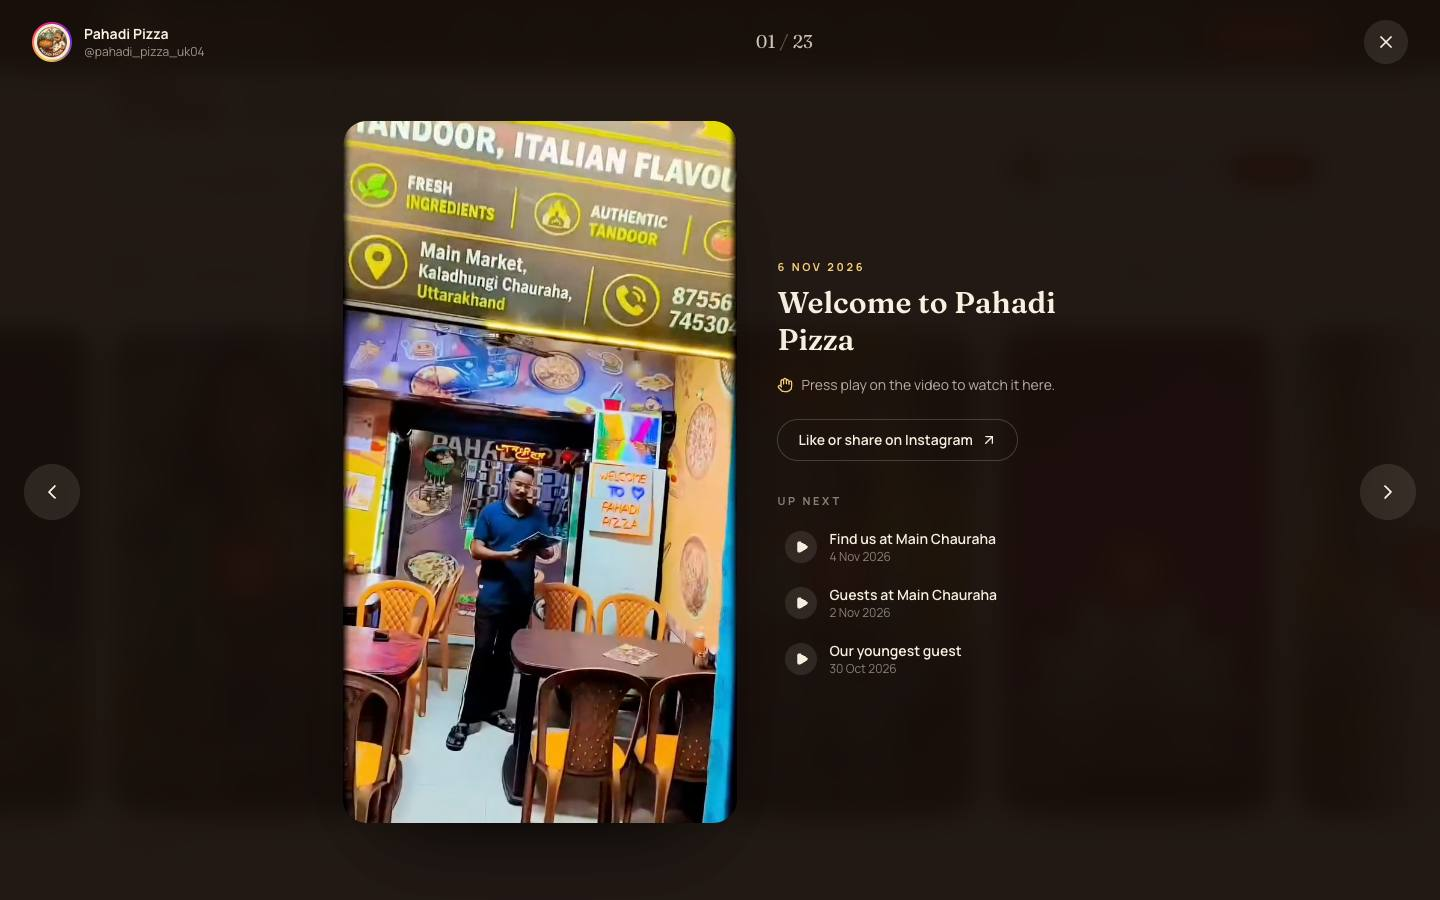
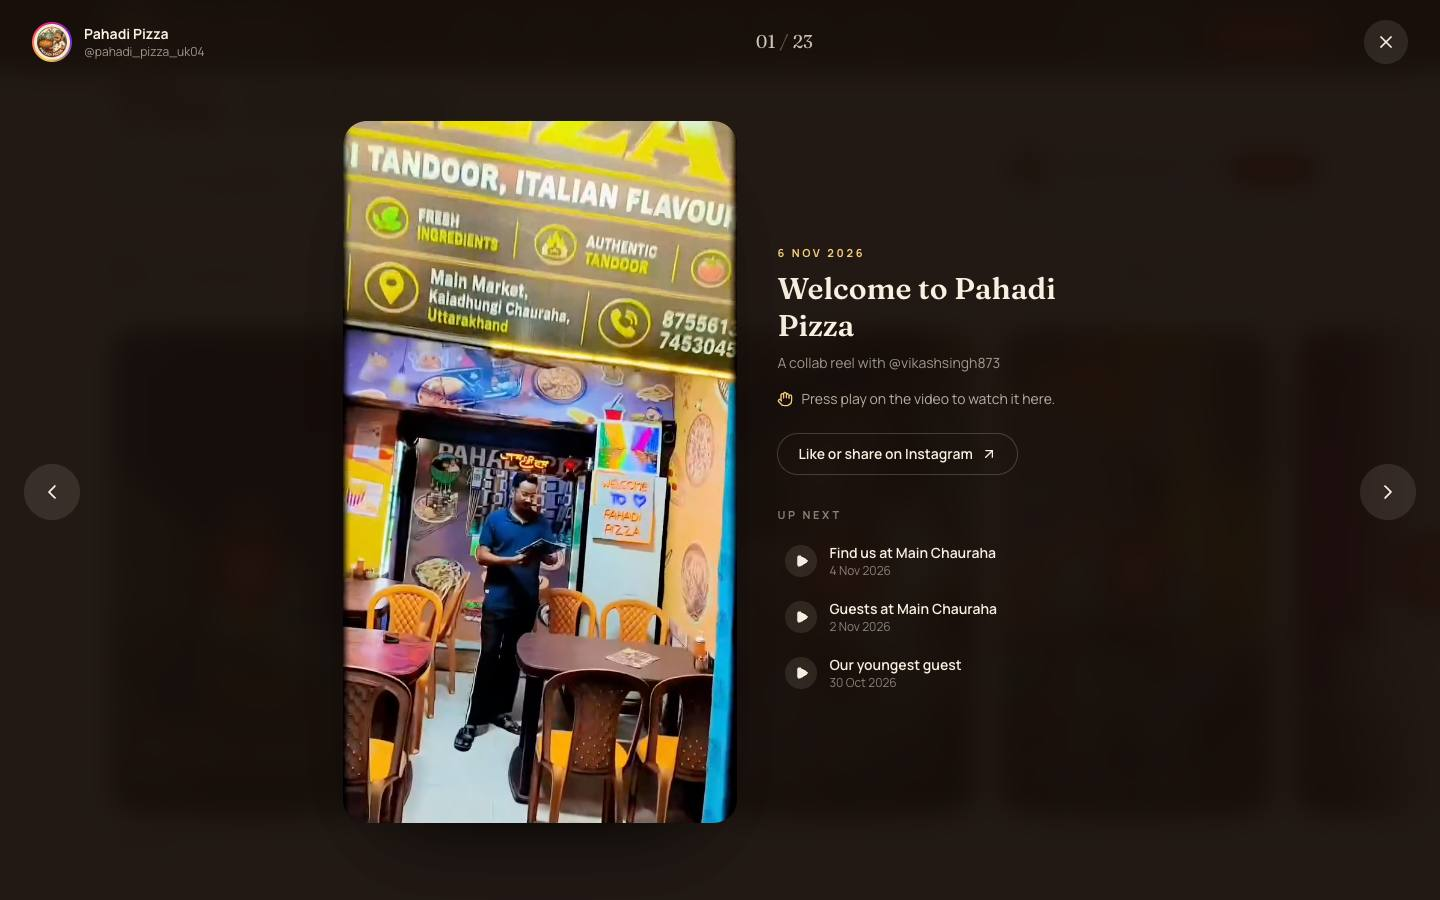
fix(gallery): keep the strip still on phones and credit collab reels
- Auto-advance now runs only at 768px and wider, where the Pause
  button is shown. On phones the strip moves only when swiped, so
  nothing slides under the visitor's thumb.
- Credit the main author of the 8 collab reels in the theatre
  ("A collab reel with @handle"), since the cropped embed no longer
  shows Instagram's own credit line.
- Trim two reel labels to what the frames show.
- Live feed: albums that open on a video use their thumbnail as the
  card poster instead of the mp4 URL, and the theatre shows album
  slides with dots again.
- Retake the gallery screenshots as a visitor lands on /#gallery.

Changed region(s): [[0.2188, 0.1244, 0.75, 0.9333]]

diff --git a/src/instagram-posts.ts b/src/instagram-posts.ts
@@ -21,34 +21,36 @@ export type FeaturedPost = {
   label: string;
   date: string;
   playsInline: boolean;
+  /** Main author of a collab reel, credited in the theatre (the cropped embed hides Instagram's own credit). */
+  with?: string;
 };
 
 export const FEATURED_POSTS: FeaturedPost[] = [
   { kind: 'reel', code: 'DfimTwrzt0O', date: '2026-11-10', playsInline: false, label: 'Pizza, momos and chowmein at Main Chauraha' },
   { kind: 'reel', code: 'DfgOV9jibEz', date: '2026-11-09', playsInline: false, label: 'Diwali buy-one-get-one offer' },
-  { kind: 'reel', code: 'DfYmET6ypEU', date: '2026-11-06', playsInline: true, label: 'Welcome to Pahadi Pizza' },
+  { kind: 'reel', code: 'DfYmET6ypEU', date: '2026-11-06', playsInline: true, label: 'Welcome to Pahadi Pizza', with: 'vikashsingh873' },
   { kind: 'reel', code: 'DfXCtE7I5E2', date: '2026-11-05', playsInline: false, label: 'A guest review at Main Chauraha' },
   { kind: 'reel', code: 'DfT8aY9i7IL', date: '2026-11-04', playsInline: true, label: 'Find us at Main Chauraha' },
-  { kind: 'reel', code: 'DfOLx8sB7SV', date: '2026-11-02', playsInline: true, label: 'Guests at Main Chauraha' },
+  { kind: 'reel', code: 'DfOLx8sB7SV', date: '2026-11-02', playsInline: true, label: 'Guests at Main Chauraha', with: 'vikashsingh873' },
   { kind: 'reel', code: 'DfMoreRirXH', date: '2026-11-01', playsInline: false, label: 'Pahadi Pizza, Kaladhungi' },
   { kind: 'reel', code: 'DfHmSh-C3PL', date: '2026-10-30', playsInline: false, label: 'Guests trying the offer' },
-  { kind: 'reel', code: 'DfG7OJlB3wp', date: '2026-10-30', playsInline: true, label: 'Our youngest guest' },
-  { kind: 'reel', code: 'De3ovyeOlPC', date: '2026-10-24', playsInline: false, label: 'The Pahadi Pizza wall' },
+  { kind: 'reel', code: 'DfG7OJlB3wp', date: '2026-10-30', playsInline: true, label: 'Our youngest guest', with: 'vikashsingh873' },
+  { kind: 'reel', code: 'De3ovyeOlPC', date: '2026-10-24', playsInline: false, label: 'The Pahadi Pizza wall', with: 'vikashsingh873' },
   { kind: 'reel', code: 'DeqLo1Mi8oy', date: '2026-10-19', playsInline: false, label: 'Sauce on the base' },
   { kind: 'reel', code: 'Dek_owcIFDL', date: '2026-10-17', playsInline: false, label: 'A guest review' },
   { kind: 'reel', code: 'DedT9zxiLoE', date: '2026-10-14', playsInline: true, label: 'Namaste from Pahadi Pizza' },
   { kind: 'reel', code: 'Deapyj5oEm7', date: '2026-10-13', playsInline: true, label: 'Mandua momos' },
-  { kind: 'reel', code: 'DeVhlK9os7A', date: '2026-10-11', playsInline: true, label: 'A new reel from the team' },
+  { kind: 'reel', code: 'DeVhlK9os7A', date: '2026-10-11', playsInline: true, label: 'A new reel from the team', with: 'vikashsingh873' },
   { kind: 'reel', code: 'DeN1AR_Jo_3', date: '2026-10-08', playsInline: true, label: 'Mandua momos at Main Chauraha' },
   { kind: 'reel', code: 'DeMR_xzi2mf', date: '2026-10-07', playsInline: true, label: 'A pizza, up close' },
   { kind: 'reel', code: 'DeJzxRDCZXH', date: '2026-10-06', playsInline: false, label: 'Mandua momos, a review from Ramnagar' },
   { kind: 'reel', code: 'DeIkwQnJLeG', date: '2026-10-06', playsInline: false, label: 'The welcome sign' },
   { kind: 'reel', code: 'DeGMN99JrlQ', date: '2026-10-05', playsInline: true, label: 'The neon welcome' },
   { kind: 'reel', code: 'DeAy7gxzg5Z', date: '2026-10-03', playsInline: false, label: 'Order now at Main Chauraha' },
-  { kind: 'reel', code: 'Dd-Wn7btRGd', date: '2026-10-02', playsInline: true, label: 'Hot pizza, fresh from the oven' },
-  { kind: 'reel', code: 'Dd0DP9VNLa6', date: '2026-09-28', playsInline: true, label: 'Main Chauraha at night' },
+  { kind: 'reel', code: 'Dd-Wn7btRGd', date: '2026-10-02', playsInline: true, label: 'A pizza close-up', with: 'its_akashsaini718' },
+  { kind: 'reel', code: 'Dd0DP9VNLa6', date: '2026-09-28', playsInline: true, label: 'Main Chauraha at night', with: 'vikashsingh873' },
   { kind: 'reel', code: 'DdxeMQBpNqS', date: '2026-09-27', playsInline: true, label: 'A customer review' },
-  { kind: 'reel', code: 'DdkndlFs2_z', date: '2026-09-22', playsInline: false, label: 'Pahadi Pizza, Kaladhungi' },
+  { kind: 'reel', code: 'DdkndlFs2_z', date: '2026-09-22', playsInline: false, label: 'Pahadi Pizza, Kaladhungi', with: 'vikashsingh873' },
   { kind: 'reel', code: 'DdjNP9gqM-a', date: '2026-09-21', playsInline: true, label: 'Inside the restaurant' },
   { kind: 'reel', code: 'DdiL8sqJPL9', date: '2026-09-21', playsInline: true, label: 'The Pahadi Pizza wall' },
   { kind: 'reel', code: 'DdWXhPhKUee', date: '2026-09-16', playsInline: false, label: 'A guest at the table' },
@@ -65,7 +67,7 @@ export const FEATURED_POSTS: FeaturedPost[] = [
   { kind: 'reel', code: 'DcgXClti2QN', date: '2026-08-26', playsInline: false, label: 'Pizza party' },
   { kind: 'reel', code: 'DcckbqtCyG5', date: '2026-08-25', playsInline: true, label: 'The shopfront by night' },
   { kind: 'reel', code: 'DcVj4CGCk8f', date: '2026-08-22', playsInline: false, label: 'Mandua momos' },
-  { kind: 'reel', code: 'DcOT7d0ii-c', date: '2026-08-19', playsInline: true, label: 'Olives, cheese and a crisp base' },
+  { kind: 'reel', code: 'DcOT7d0ii-c', date: '2026-08-19', playsInline: true, label: 'A pizza with olives' },
   { kind: 'reel', code: 'Db-02Ljit1d', date: '2026-08-13', playsInline: false, label: 'A guest review' },
   { kind: 'reel', code: 'DbdP8GtiAGQ', date: '2026-07-31', playsInline: true, label: 'A pizza, ready to serve' },
   { kind: 'p', code: 'DKjLT1vJZfO', date: '2025-06-06', playsInline: false, label: 'The full menu card' },

diff --git a/src/components/gallery/Theatre.tsx b/src/components/gallery/Theatre.tsx
@@ -1,6 +1,6 @@
 'use client';
 
-import { useCallback, useEffect, useRef, type PointerEvent } from 'react';
+import { useCallback, useEffect, useRef, useState, type PointerEvent } from 'react';
 import Image from 'next/image';
 import { AnimatePresence, motion } from 'framer-motion';
 import { ArrowUpRight, ChevronLeft, ChevronRight, Hand, Play, X } from 'lucide-react';
@@ -146,6 +146,7 @@ export default function Theatre({ items, index, onChange }: Props) {
               )}
               <p className="text-[11px] font-bold uppercase tracking-[0.24em] text-gold-light">{formatPostDate(item.date)}</p>
               <h3 className="mt-2 font-display text-2xl font-semibold leading-tight md:text-3xl">{item.label}</h3>
+              {item.with && <p className="mt-2 text-sm text-cream/60">A collab reel with @{item.with}</p>}
               {item.caption && <Caption text={item.caption} />}
               {item.embedUrl && item.kind === 'video' && (
                 <p className="mt-4 flex items-center gap-2 text-sm text-cream/70">
@@ -209,32 +210,7 @@ export default function Theatre({ items, index, onChange }: Props) {
 /** Video frame, sized to fit the screen height. */
 function Stage({ item }: { item: ReelItem }) {
   const media = item.media;
-
-  if (media) {
-    const slide = media.mediaType === 'CAROUSEL_ALBUM' && media.children?.length ? media.children[0] : media;
-    const isVideo = slide.mediaType === 'VIDEO';
-    return (
-      <div
-        className={`relative mx-auto overflow-hidden rounded-[1.5rem] bg-black shadow-[0_40px_90px_-40px_rgba(0,0,0,0.9)] ${
-          isVideo ? 'aspect-[9/16] h-[min(62vh,calc(100vw*16/9))] md:h-[min(78vh,820px)]' : 'aspect-[4/5] h-[min(62vh,calc(100vw*5/4))] md:h-[min(78vh,760px)]'
-        }`}
-      >
-        {isVideo ? (
-          <video
-            key={slide.mediaUrl}
-            src={slide.mediaUrl}
-            poster={slide.thumbnailUrl}
-            controls
-            autoPlay
-            playsInline
-            className="absolute inset-0 h-full w-full object-contain"
-          />
-        ) : (
-          <Image src={slide.mediaUrl} alt={item.label} fill unoptimized sizes="(min-width: 768px) 50vw, 100vw" className="object-contain" />
-        )}
-      </div>
-    );
-  }
+  if (media) return <MediaStage key={item.id} item={item} />;
 
   const reel = item.kind === 'video';
   return (
@@ -255,6 +231,51 @@ function Stage({ item }: { item: ReelItem }) {
           shape={reel ? 'reel' : 'post'}
           inert={!reel}
         />
+      )}
+    </div>
+  );
+}
+
+/** A live API post: our own player for videos, the image for photos, with dots for album slides. */
+function MediaStage({ item }: { item: ReelItem }) {
+  const media = item.media!;
+  const slides = media.mediaType === 'CAROUSEL_ALBUM' && media.children?.length ? media.children : [media];
+  const [slide, setSlide] = useState(0);
+  const current = slides[Math.min(slide, slides.length - 1)];
+  const isVideo = current.mediaType === 'VIDEO';
+
+  return (
+    <div
+      className={`relative mx-auto overflow-hidden rounded-[1.5rem] bg-black shadow-[0_40px_90px_-40px_rgba(0,0,0,0.9)] ${
+        isVideo ? 'aspect-[9/16] w-[min(100%,calc(62vh*9/16))] md:w-[min(calc(78vh*9/16),460px)]' : 'aspect-[4/5] w-[min(100%,calc(62vh*4/5))] md:w-[min(calc(78vh*4/5),600px)]'
+      }`}
+    >
+      {isVideo ? (
+        <video
+          key={current.mediaUrl}
+          src={current.mediaUrl}
+          poster={current.thumbnailUrl}
+          controls
+          autoPlay
+          playsInline
+          className="absolute inset-0 h-full w-full object-contain"
+        />
+      ) : (
+        <Image key={current.mediaUrl} src={current.mediaUrl} alt={item.label} fill unoptimized sizes="(min-width: 768px) 50vw, 100vw" className="object-contain" />
+      )}
+      {slides.length > 1 && (
+        <div className="absolute inset-x-0 bottom-3 flex justify-center gap-1.5">
+          {slides.map((s, i) => (
+            <button
+              key={s.id}
+              type="button"
+              onClick={() => setSlide(i)}
+              aria-label={`Show slide ${i + 1} of ${slides.length}`}
+              aria-current={i === slide}
+              className={`h-2 rounded-full transition-all ${i === slide ? 'w-6 bg-cream' : 'w-2 bg-cream/50'}`}
+            />
+          ))}
+        </div>
       )}
     </div>
   );

diff --git a/src/components/gallery/ReelStrip.tsx b/src/components/gallery/ReelStrip.tsx
@@ -4,7 +4,7 @@ import { useCallback, useEffect, useRef, useState, type KeyboardEvent, type Mous
 import { ChevronLeft, ChevronRight, Pause, Play } from 'lucide-react';
 import ReelCard from './ReelCard';
 import type { ReelItem } from './types';
-import { usePrefersReducedMotion } from './usePrefersReducedMotion';
+import { usePrefersReducedMotion, useMediaQuery } from './usePrefersReducedMotion';
 
 const AUTO_ADVANCE_MS = 3600;
 /** After the visitor scrolls, drags or presses an arrow, auto-advance waits this long before resuming. */
@@ -22,13 +22,16 @@ type Props = {
 /**
  * Horizontal reel strip: native momentum scrolling and swipe, mouse drag with a little glide,
  * arrow buttons, keyboard arrows between cards, and a gentle auto-advance that loops back to
- * the first reel. Auto-advance stops on hover, focus, interaction, while the theatre is open,
+ * the first reel (wide screens only). Auto-advance stops on hover, focus, interaction, while the theatre is open,
  * off screen, in a background tab, for reduced motion, or with the pause button.
  */
 export default function ReelStrip({ items, paused, onOpen }: Props) {
   const scroller = useRef<HTMLUListElement>(null);
   const section = useRef<HTMLDivElement>(null);
   const reduced = usePrefersReducedMotion();
+  // Phones scroll the strip by swipe only: nothing moves under the visitor's thumb.
+  const wide = useMediaQuery('(min-width: 768px)');
+  const auto = wide && !reduced;
 
   const [inView, setInView] = useState(false);
   const [near, setNear] = useState<boolean[]>(() => items.map(() => false));
@@ -110,12 +113,12 @@ export default function ReelStrip({ items, paused, onOpen }: Props) {
 
   // Auto-advance. `now` ticks so a pause after interaction ends on its own.
   const running =
-    !reduced && !userPaused && !paused && !hovering && !focusWithin && inView && pageVisible && now - lastTouch > RESUME_AFTER_MS;
+    auto && !userPaused && !paused && !hovering && !focusWithin && inView && pageVisible && now - lastTouch > RESUME_AFTER_MS;
   useEffect(() => {
-    if (reduced || userPaused) return;
+    if (!auto || userPaused) return;
     const t = window.setInterval(() => setNow(Date.now()), AUTO_ADVANCE_MS);
     return () => window.clearInterval(t);
-  }, [reduced, userPaused]);
+  }, [auto, userPaused]);
   useEffect(() => {
     if (running && now) go(1);
     // Advance once per tick only.
@@ -200,7 +203,6 @@ export default function ReelStrip({ items, paused, onOpen }: Props) {
     next.closest('li')?.scrollIntoView({ behavior: reduced ? 'auto' : 'smooth', inline: 'start', block: 'nearest' });
   };
 
-  const showAutoToggle = !reduced;
 
   return (
     <div ref={section} onMouseEnter={() => setHovering(true)} onMouseLeave={() => setHovering(false)}>
@@ -212,13 +214,13 @@ export default function ReelStrip({ items, paused, onOpen }: Props) {
           <span className="ml-3 hidden sm:inline">Newest first</span>
         </p>
         <div className="flex items-center gap-2">
-          {showAutoToggle && (
+          {auto && (
             <button
               type="button"
               onClick={() => setUserPaused((p) => !p)}
               aria-pressed={userPaused}
               aria-label={userPaused ? 'Resume auto-scroll' : 'Pause auto-scroll'}
-              className="mr-1 hidden h-11 items-center gap-2 rounded-full px-4 text-xs font-bold uppercase tracking-[0.18em] text-muted transition hover:text-tomato md:inline-flex"
+              className="mr-1 inline-flex h-11 items-center gap-2 rounded-full px-4 text-xs font-bold uppercase tracking-[0.18em] text-muted transition hover:text-tomato"
             >
               {userPaused ? <Play className="h-3.5 w-3.5 fill-current" aria-hidden /> : <Pause className="h-3.5 w-3.5 fill-current" aria-hidden />}
               {userPaused ? 'Play' : 'Pause'}

diff --git a/src/components/gallery/usePrefersReducedMotion.ts b/src/components/gallery/usePrefersReducedMotion.ts
@@ -1,14 +1,15 @@
 'use client';
 
-import { useSyncExternalStore } from 'react';
+import { useCallback, useSyncExternalStore } from 'react';
 
 const QUERY = '(prefers-reduced-motion: reduce)';
 
-function subscribe(cb: () => void) {
-  const mq = window.matchMedia(QUERY);
+const subscribeTo = (query: string) => (cb: () => void) => {
+  const mq = window.matchMedia(query);
   mq.addEventListener('change', cb);
   return () => mq.removeEventListener('change', cb);
-}
+};
+const subscribe = subscribeTo(QUERY);
 
 /** True when the visitor asked the OS for less motion. Server render assumes reduced motion, so nothing autoplays before hydration. */
 export function usePrefersReducedMotion() {
@@ -16,5 +17,15 @@ export function usePrefersReducedMotion() {
     subscribe,
     () => window.matchMedia(QUERY).matches,
     () => true,
+  );
+}
+
+/** True while the media query matches. Server render assumes it does not. */
+export function useMediaQuery(query: string) {
+  const subscribeQuery = useCallback((cb: () => void) => subscribeTo(query)(cb), [query]);
+  return useSyncExternalStore(
+    subscribeQuery,
+    () => window.matchMedia(query).matches,
+    () => false,
   );
 }

diff --git a/src/components/gallery/ReelCard.tsx b/src/components/gallery/ReelCard.tsx
@@ -23,7 +23,8 @@ type Props = {
  */
 export default function ReelCard({ item, index, total, near, onOpen }: Props) {
   const isVideo = item.kind === 'video';
-  const poster = item.media ? (isVideo ? item.media.thumbnailUrl : item.media.mediaUrl) : undefined;
+  // For videos, and albums that open on a video, mediaUrl is an mp4, so the thumbnail is the poster.
+  const poster = item.media ? (item.media.mediaType === 'IMAGE' ? item.media.mediaUrl : (item.media.thumbnailUrl ?? item.media.mediaUrl)) : undefined;
   const date = formatPostDate(item.date);
 
   return (

diff --git a/src/components/gallery/types.ts b/src/components/gallery/types.ts
@@ -14,5 +14,7 @@ export type ReelItem = {
   date: string;
   permalink: string;
   embedUrl?: string;
+  /** Instagram handle of a collab reel's main author, if it is not the restaurant. */
+  with?: string;
   media?: InstagramMedia;
 };

diff --git a/src/components/Gallery.tsx b/src/components/Gallery.tsx
@@ -24,6 +24,7 @@ export default async function Gallery() {
     date: p.date,
     permalink: postUrl(p),
     embedUrl: `${postUrl(p)}embed/`,
+    with: p.with,
   }));
   return <ReelGallery mode="embed" items={items} />;
 }
